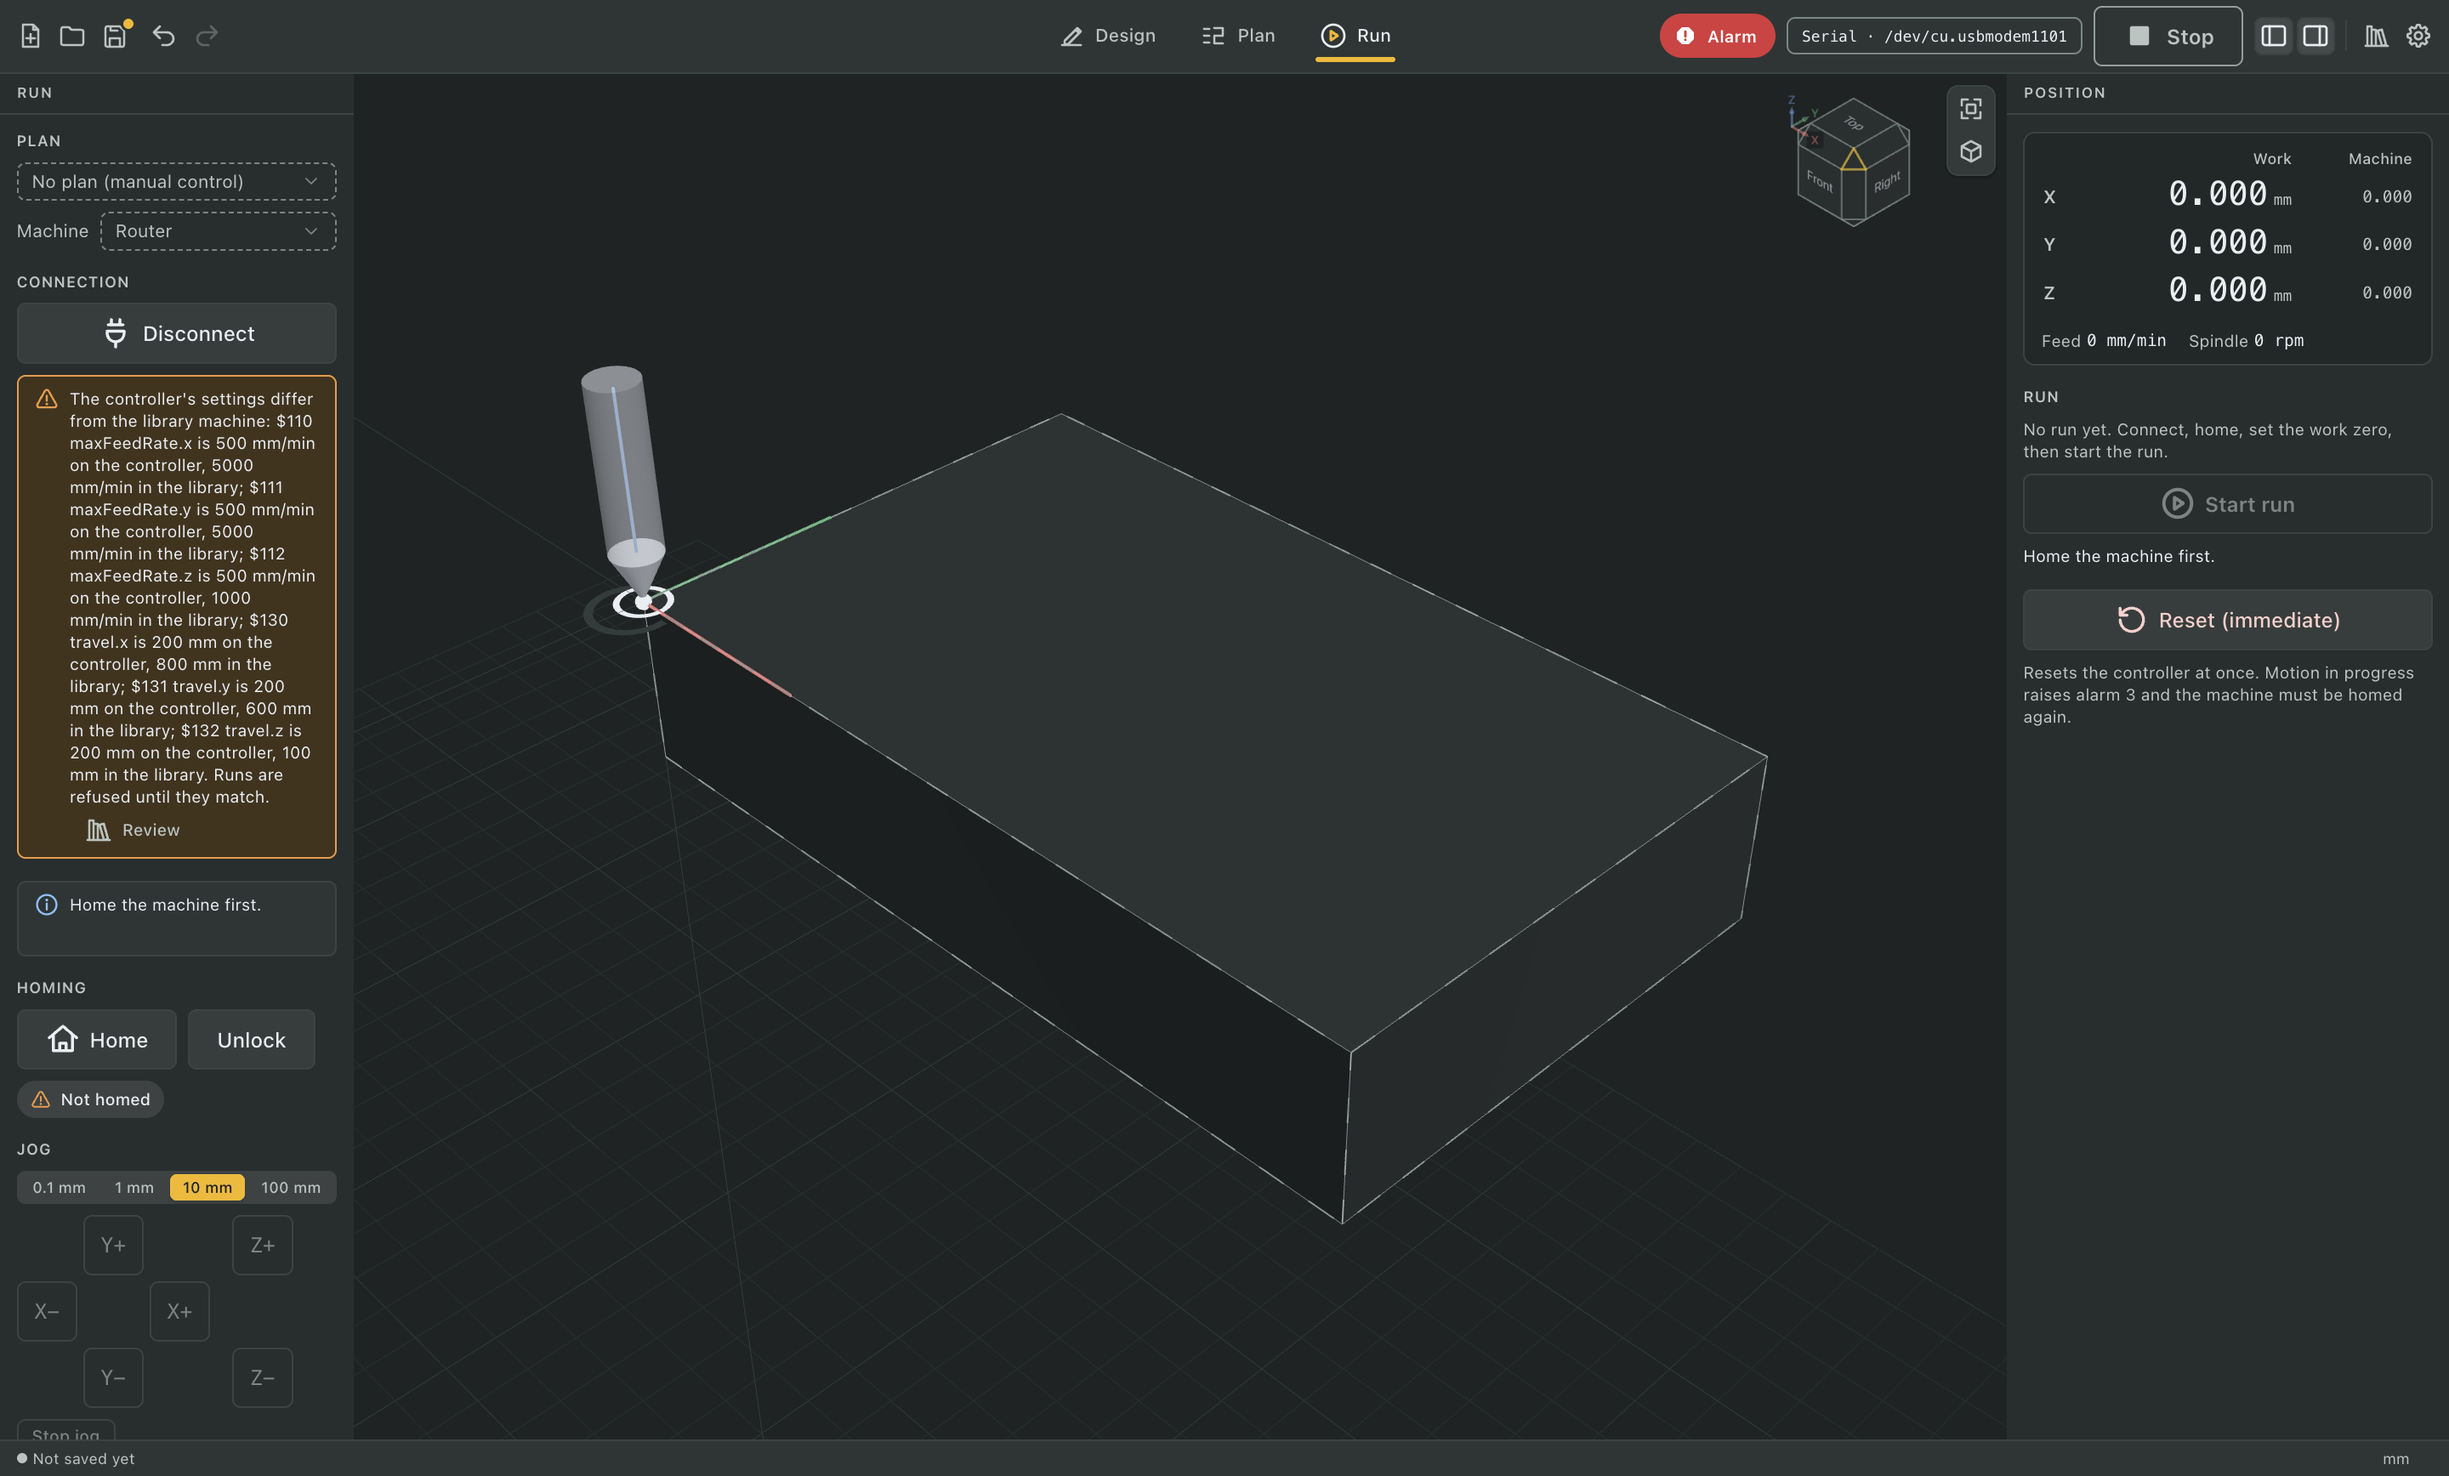
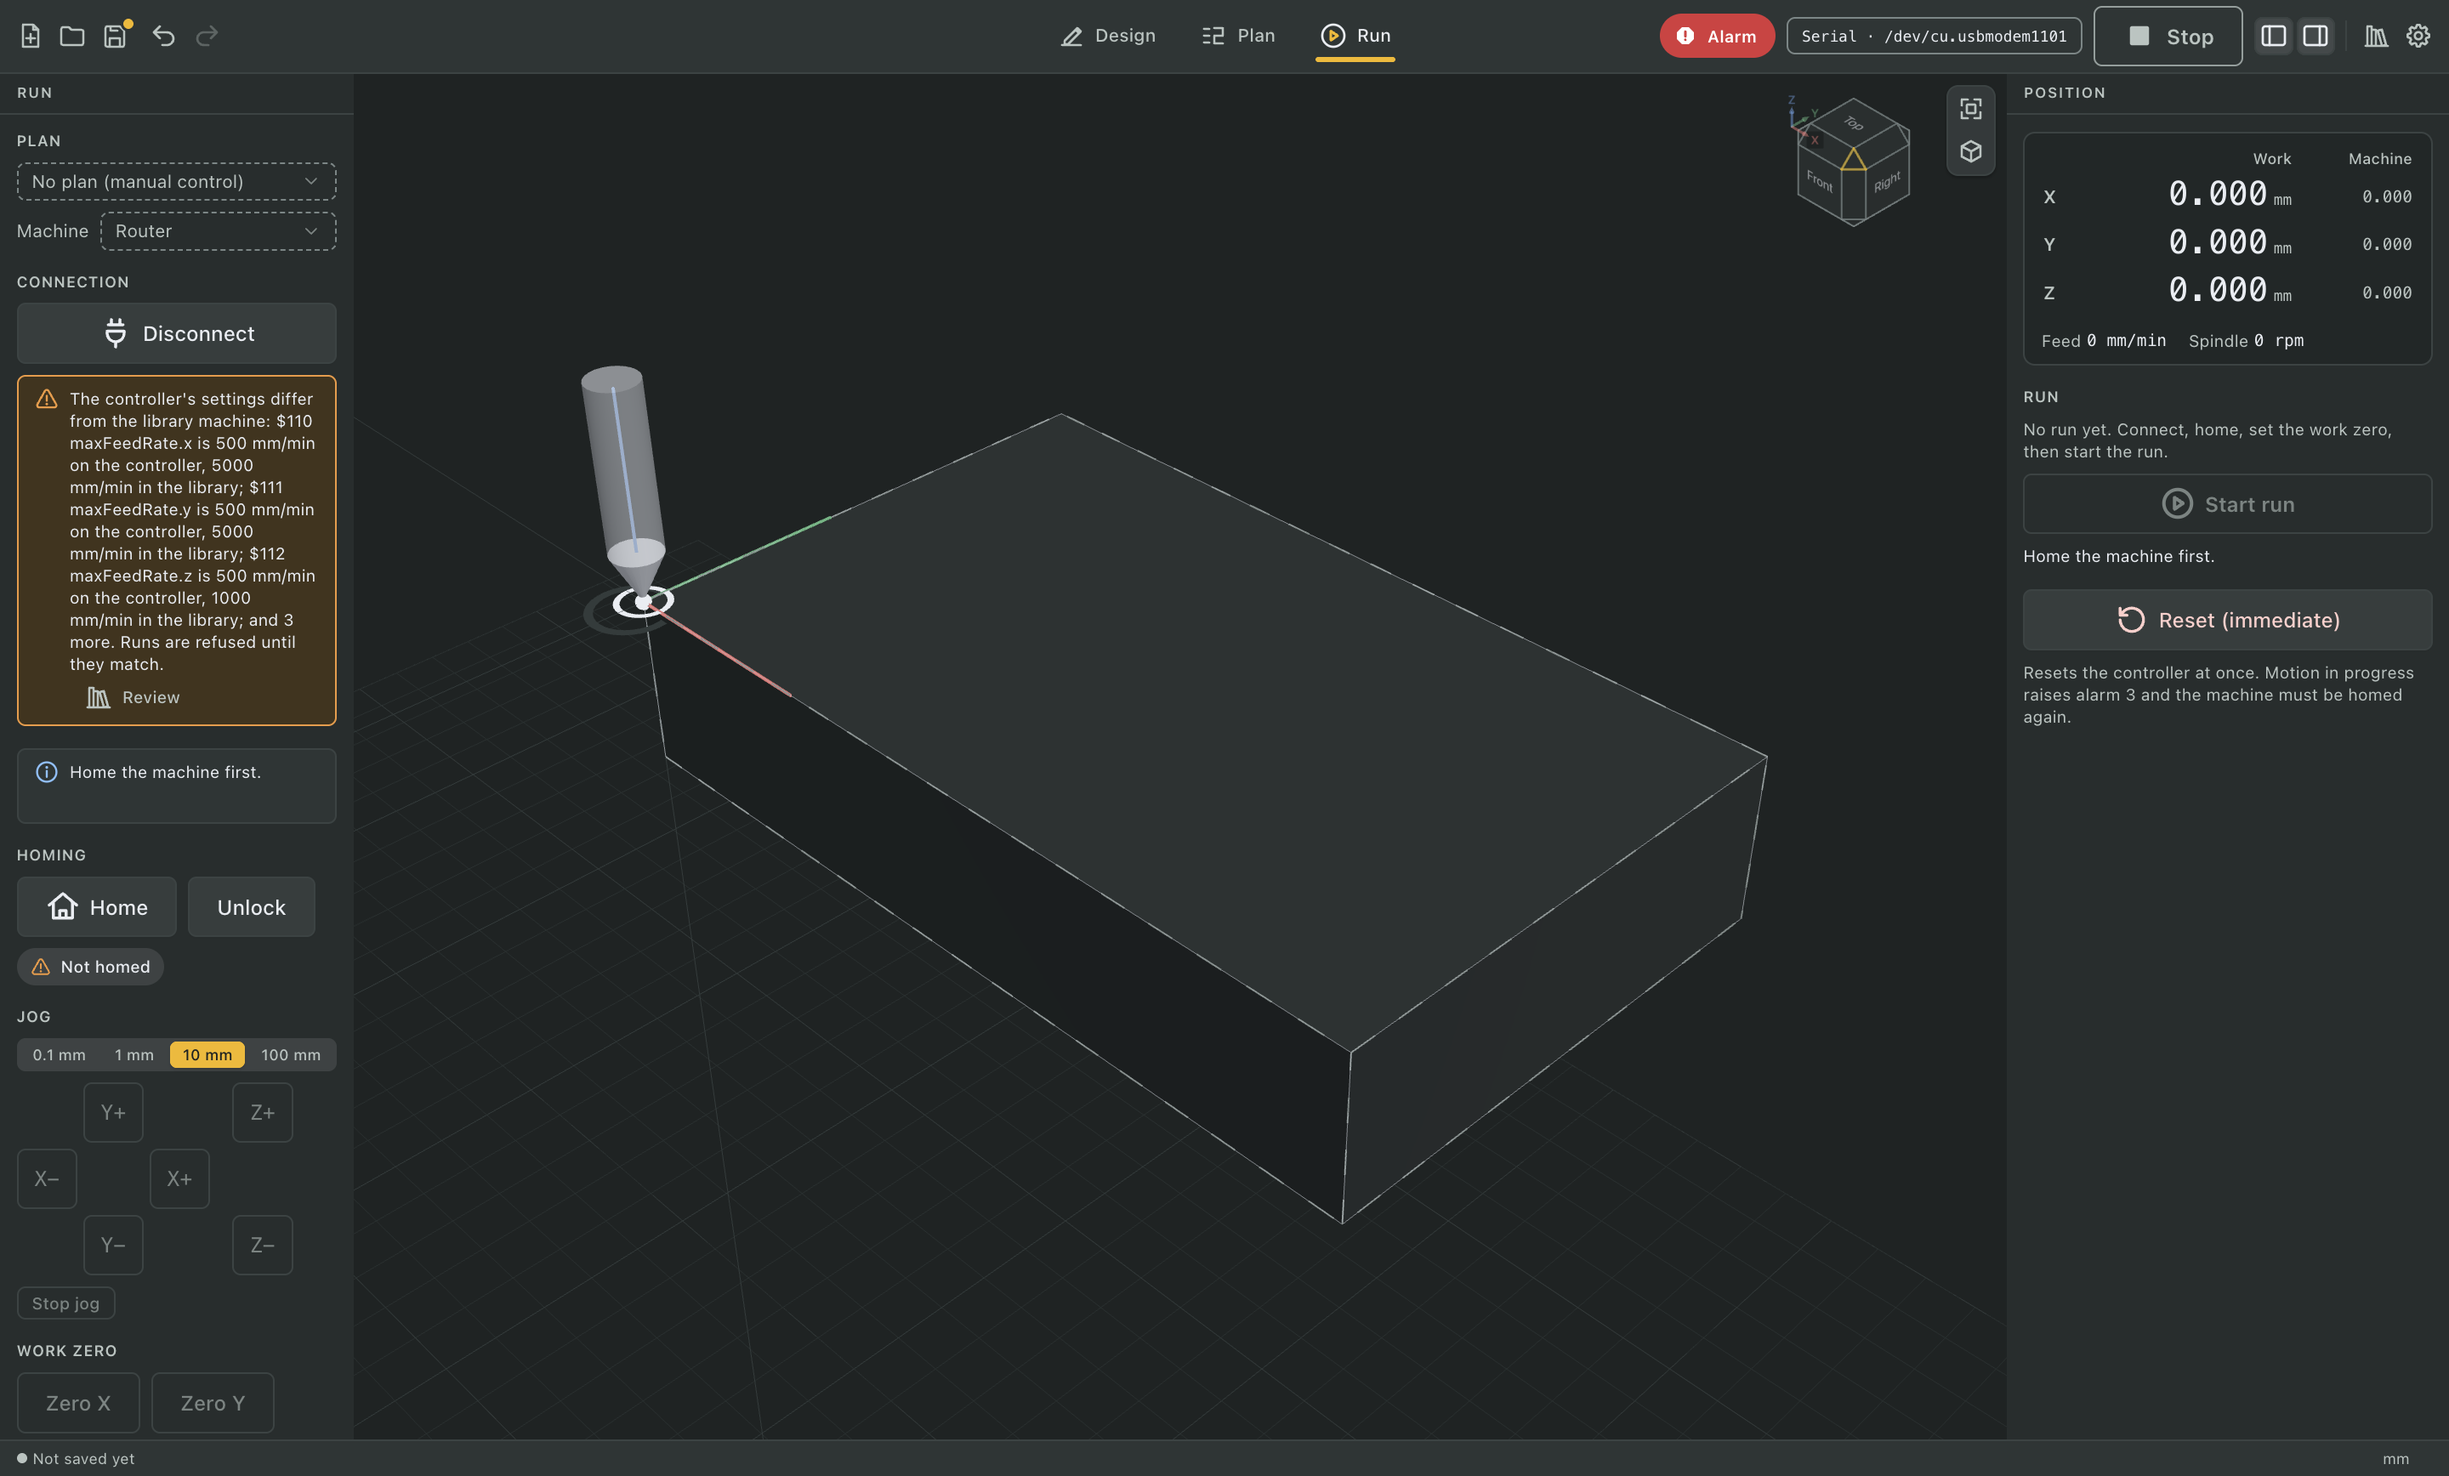
M1: e2e difference count, renders, packaging note on symlinked node_modules

diff --git a/e2e/run-serial.e2e.ts b/e2e/run-serial.e2e.ts
@@ -97,7 +97,7 @@ test('serial port (M1): pick the port, connect, settings warning, Home asks firs
     const warning = navigator.getByRole('alert')
     await expect(warning).toContainText("The controller's settings differ from the library machine")
     await expect(warning).toContainText('$110 maxFeedRate.x')
-    await expect(warning).toContainText('and 4 more')
+    await expect(warning).toContainText('and 3 more')
     await expect(warning.getByRole('button', { name: 'Review' })).toBeVisible()
     await render(page, 'settings-warning')
 

diff --git a/docs/conventions/packaging.md b/docs/conventions/packaging.md
@@ -13,7 +13,7 @@ How the app is packaged as `DFYOM.app` and installed for the developer. Local in
 | `npm run install:local`  | `package`, then [`scripts/install-local.mjs`](../../scripts/install-local.mjs) copies the app to `~/Applications/DFYOM.app` (no sudo)                                       |
 | `npm run smoke:packaged` | The [smoke tests](testing.md#app-playwright-for-electron) on the packaged executable, windows hidden; run after `package`                                                   |
 
-`smoke:packaged` is optional, not part of `npm run check` or CI. **When a milestone is reached** (a plan in [plans/](../plans/) closes), run `npm run install:local`, then `npm run smoke:packaged`, so the installed app is that milestone's version (`package.json` `version`, shown in the window title and Finder's Get Info).
+`smoke:packaged` is optional, not part of `npm run check` or CI. **When a milestone is reached** (a plan in [plans/](../plans/) closes), run `npm run install:local`, then `npm run smoke:packaged`, so the installed app is that milestone's version (`package.json` `version`, shown in the window title and Finder's Get Info). Package from a real `node_modules`: with a **symlinked** `node_modules` (a worktree sharing the main checkout's) electron-builder cannot resolve the transitive dependencies ("cannot find path for dependency") and ships an app without them (pino's `sonic-boom`, serialport's parsers and binding) that does not start; an APFS clone (`cp -c -R`) works.
 
 ## Install
 
